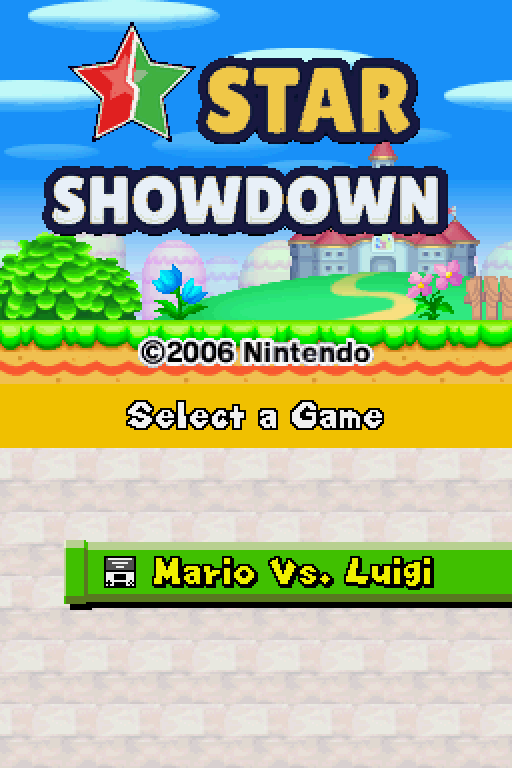
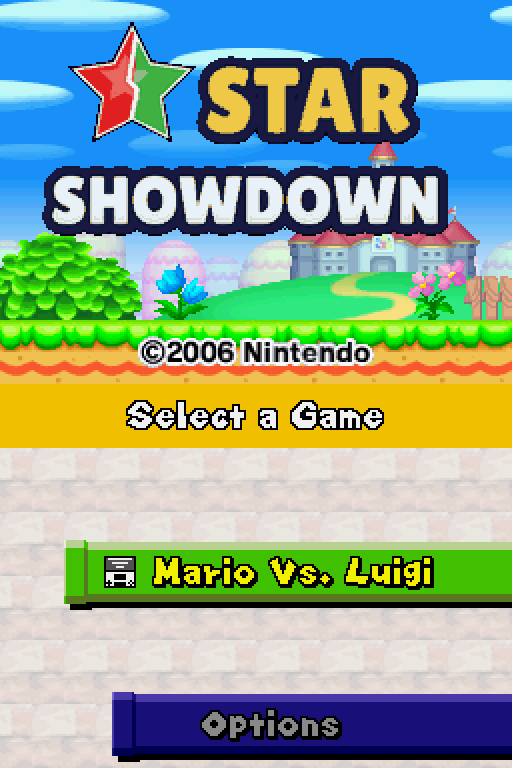
Title menu: bring back the Options button
Claude-Session: https://claude.ai/code/session_014az4MYTwHmV75LdYbiWUiz

diff --git a/tools/codepatch.py b/tools/codepatch.py
@@ -213,24 +213,26 @@ def patch_overlay9_title(data, ram):
     return bytes(d)
 
 
-# ---- title menu: only "Mario Vs. Luigi" -------------------------------------
+# ---- title menu: only "Mario Vs. Luigi" and "Options" ----------------------
+# Buttons: 0 Mario Game, 1 Mario Vs. Luigi, 2 Minigames, 3 Options.
 OV009_PATCHES = [
     # (address, original instruction, new instruction)
     (0x020E18E0, 'mov r8, #0', 'mov r8, #1'),            # draw loop starts at button 1
     (0x020E18E4, 'mov fp, r8', 'mov fp, #0'),            # (r8 was also used as a zero)
     (0x020E18E8, 'mov r5, r8', 'mov r5, #0'),
-    (0x020E1984, 'cmp r8, #4', 'cmp r8, #2'),            # ... and stops after it
-    (0x020E52B0, 'cmp r7, #3', 'cmp r7, #1'),            # touch: only button 1 counts
-    (0x020E52B4, 'bgt #0x20e538c', 'bne #0x20e538c'),
-    (0x020E5364, 'addne r1, r1, #1', 'mov r0, r0'),      # d-pad down does nothing
-    (0x020E5384, 'subne r1, r1, #1', 'mov r0, r0'),      # d-pad up does nothing
+    (0x020E1980, 'add r8, r8, #1', 'add r8, r8, #2'),    # ... and draws buttons 1 and 3
+    (0x020E52B0, 'cmp r7, #3', 'tst r7, #1'),            # touch: only buttons 1 and 3 count
+    (0x020E52B4, 'bgt #0x20e538c', 'beq #0x20e538c'),
+    (0x020E5364, 'addne r1, r1, #1', 'addne r1, r1, #2'),  # d-pad down: 1 -> 3
+    (0x020E5378, 'cmp r4, #0', 'cmp r4, #1'),            # d-pad up: 3 -> 1
+    (0x020E5384, 'subne r1, r1, #1', 'subne r1, r1, #2'),
     (0x020E5924, 'moveq r1, #2', 'moveq r1, #1'),        # default selection: button 1
     (0x020E5934, 'mov r1, #0', 'mov r1, #1'),
 ]
 
 
 def patch_overlay9_single_button(data, ram):
-    """Show only the "Mario Vs. Luigi" button on the title menu and select it."""
+    """Show only the "Mario Vs. Luigi" and "Options" buttons on the title menu."""
     d = bytearray(data)
     for addr, old, new in OV009_PATCHES:
         o = addr - ram

diff --git a/README.md b/README.md
@@ -20,7 +20,7 @@ This repository does not contain a ROM. The build script applies all changes to 
 | **Stages** | 20: the 5 originals plus 15 new ones |
 | **Pages** | R goes to the next page, L to the previous one; the thumbnails change along |
 | **Course: Random** | picks from all 20 stages |
-| **Title screen** | the Star Showdown logo on the top screen and a single button: Mario Vs. Luigi |
+| **Title screen** | the Star Showdown logo on the top screen and two buttons: Mario Vs. Luigi and Options |
 | **ROM size** | 18 MB instead of 33.5 MB |
 | **Version** | European ROM only (En, Fr, De, Es, It) |
 
@@ -28,7 +28,7 @@ Every slot on a page belongs to a theme: slot 1 is grass, 2 underground, 3 ice, 
 
 ## Title screen
 
-The story mode, Minigames and Options buttons are gone. The title menu only shows "Mario Vs. Luigi", already selected, and the top screen shows the Star Showdown logo instead of the original one.
+The story mode and Minigames buttons are gone. The title menu shows "Mario Vs. Luigi" (selected by default) and "Options", and the top screen shows the Star Showdown logo instead of the original one.
 
 <img src="docs/title.png" alt="Title screen" width="256">
 
@@ -176,7 +176,7 @@ The code changes (European version):
 | ov052 `0x02160E54` | end of `getStage()`: writes the file IDs of the chosen page into the course table (`0x0202C8C4` and `0x0202C5DC`) |
 | ov052 `0x02161B30` | stage select update: R and L flip through the pages and the thumbnails are updated in VRAM |
 | ov052 `0x02161FAC` and `0x02161FC4` | Random picks from all pages instead of five stages |
-| ov009 `0x020E18E0`, `0x020E52B0`, `0x020E5364`, `0x020E5924` | the title menu only draws and accepts the "Mario Vs. Luigi" button and selects it by default; `0x020E5148` also sends the old "Mario Game" case to Mario vs Luigi |
+| ov009 `0x020E18E0`, `0x020E52B0`, `0x020E5364`, `0x020E5924` | the title menu only draws and accepts the "Mario Vs. Luigi" and "Options" buttons, the d-pad jumps between them and Mario Vs. Luigi is selected by default; `0x020E5148` also sends the old "Mario Game" case to Mario vs Luigi |
 | `UI_O_menu_title_logo_o_u_ncg.bin.E??` and `d_2d_UI_O_menu_title_logo_o_u_ncl.bin` | the Star Showdown logo on the top screen (tiles and two palettes) |
 | `menu_title_E??.narc` message 12 | L/R hint text in five languages |
 | banner | the title "Star Showdown" and a custom icon in the DS menu |
@@ -202,12 +202,13 @@ The input in the stage select menu is synchronised between both DS systems, just
 
 ## Tested
 
-All fifteen new stages were played in a real two-player session with two melonDS instances (local wireless), including flipping pages and Random. The stages were also checked in single player in DeSmuME for tiles, enemies and blocks. The title screen with only the Mario Vs. Luigi button was tested in DeSmuME: tapping where the other buttons used to be does nothing.
+All fifteen new stages were played in a real two-player session with two melonDS instances (local wireless), including flipping pages and Random. The stages were also checked in single player in DeSmuME for tiles, enemies and blocks. The title screen was tested in DeSmuME: Mario Vs. Luigi and Options both work, the d-pad jumps between them and tapping where the removed buttons used to be does nothing.
 
 Not tested yet: real hardware and DS Download Play (playing with someone who does not have the cartridge). The new stages are in the same archives that Download Play uses, so it should work.
 
 ## Known limitations
 
+* On the title menu there is an empty spot between Mario Vs. Luigi and Options where Minigames used to be.
 * The "Ready!" screen and the results screen show the name and picture of the original stage in the same slot.
 * New themes (such as desert or lava) are not possible without extra archives with tilesets and backgrounds.
 * Only the European version is supported.
